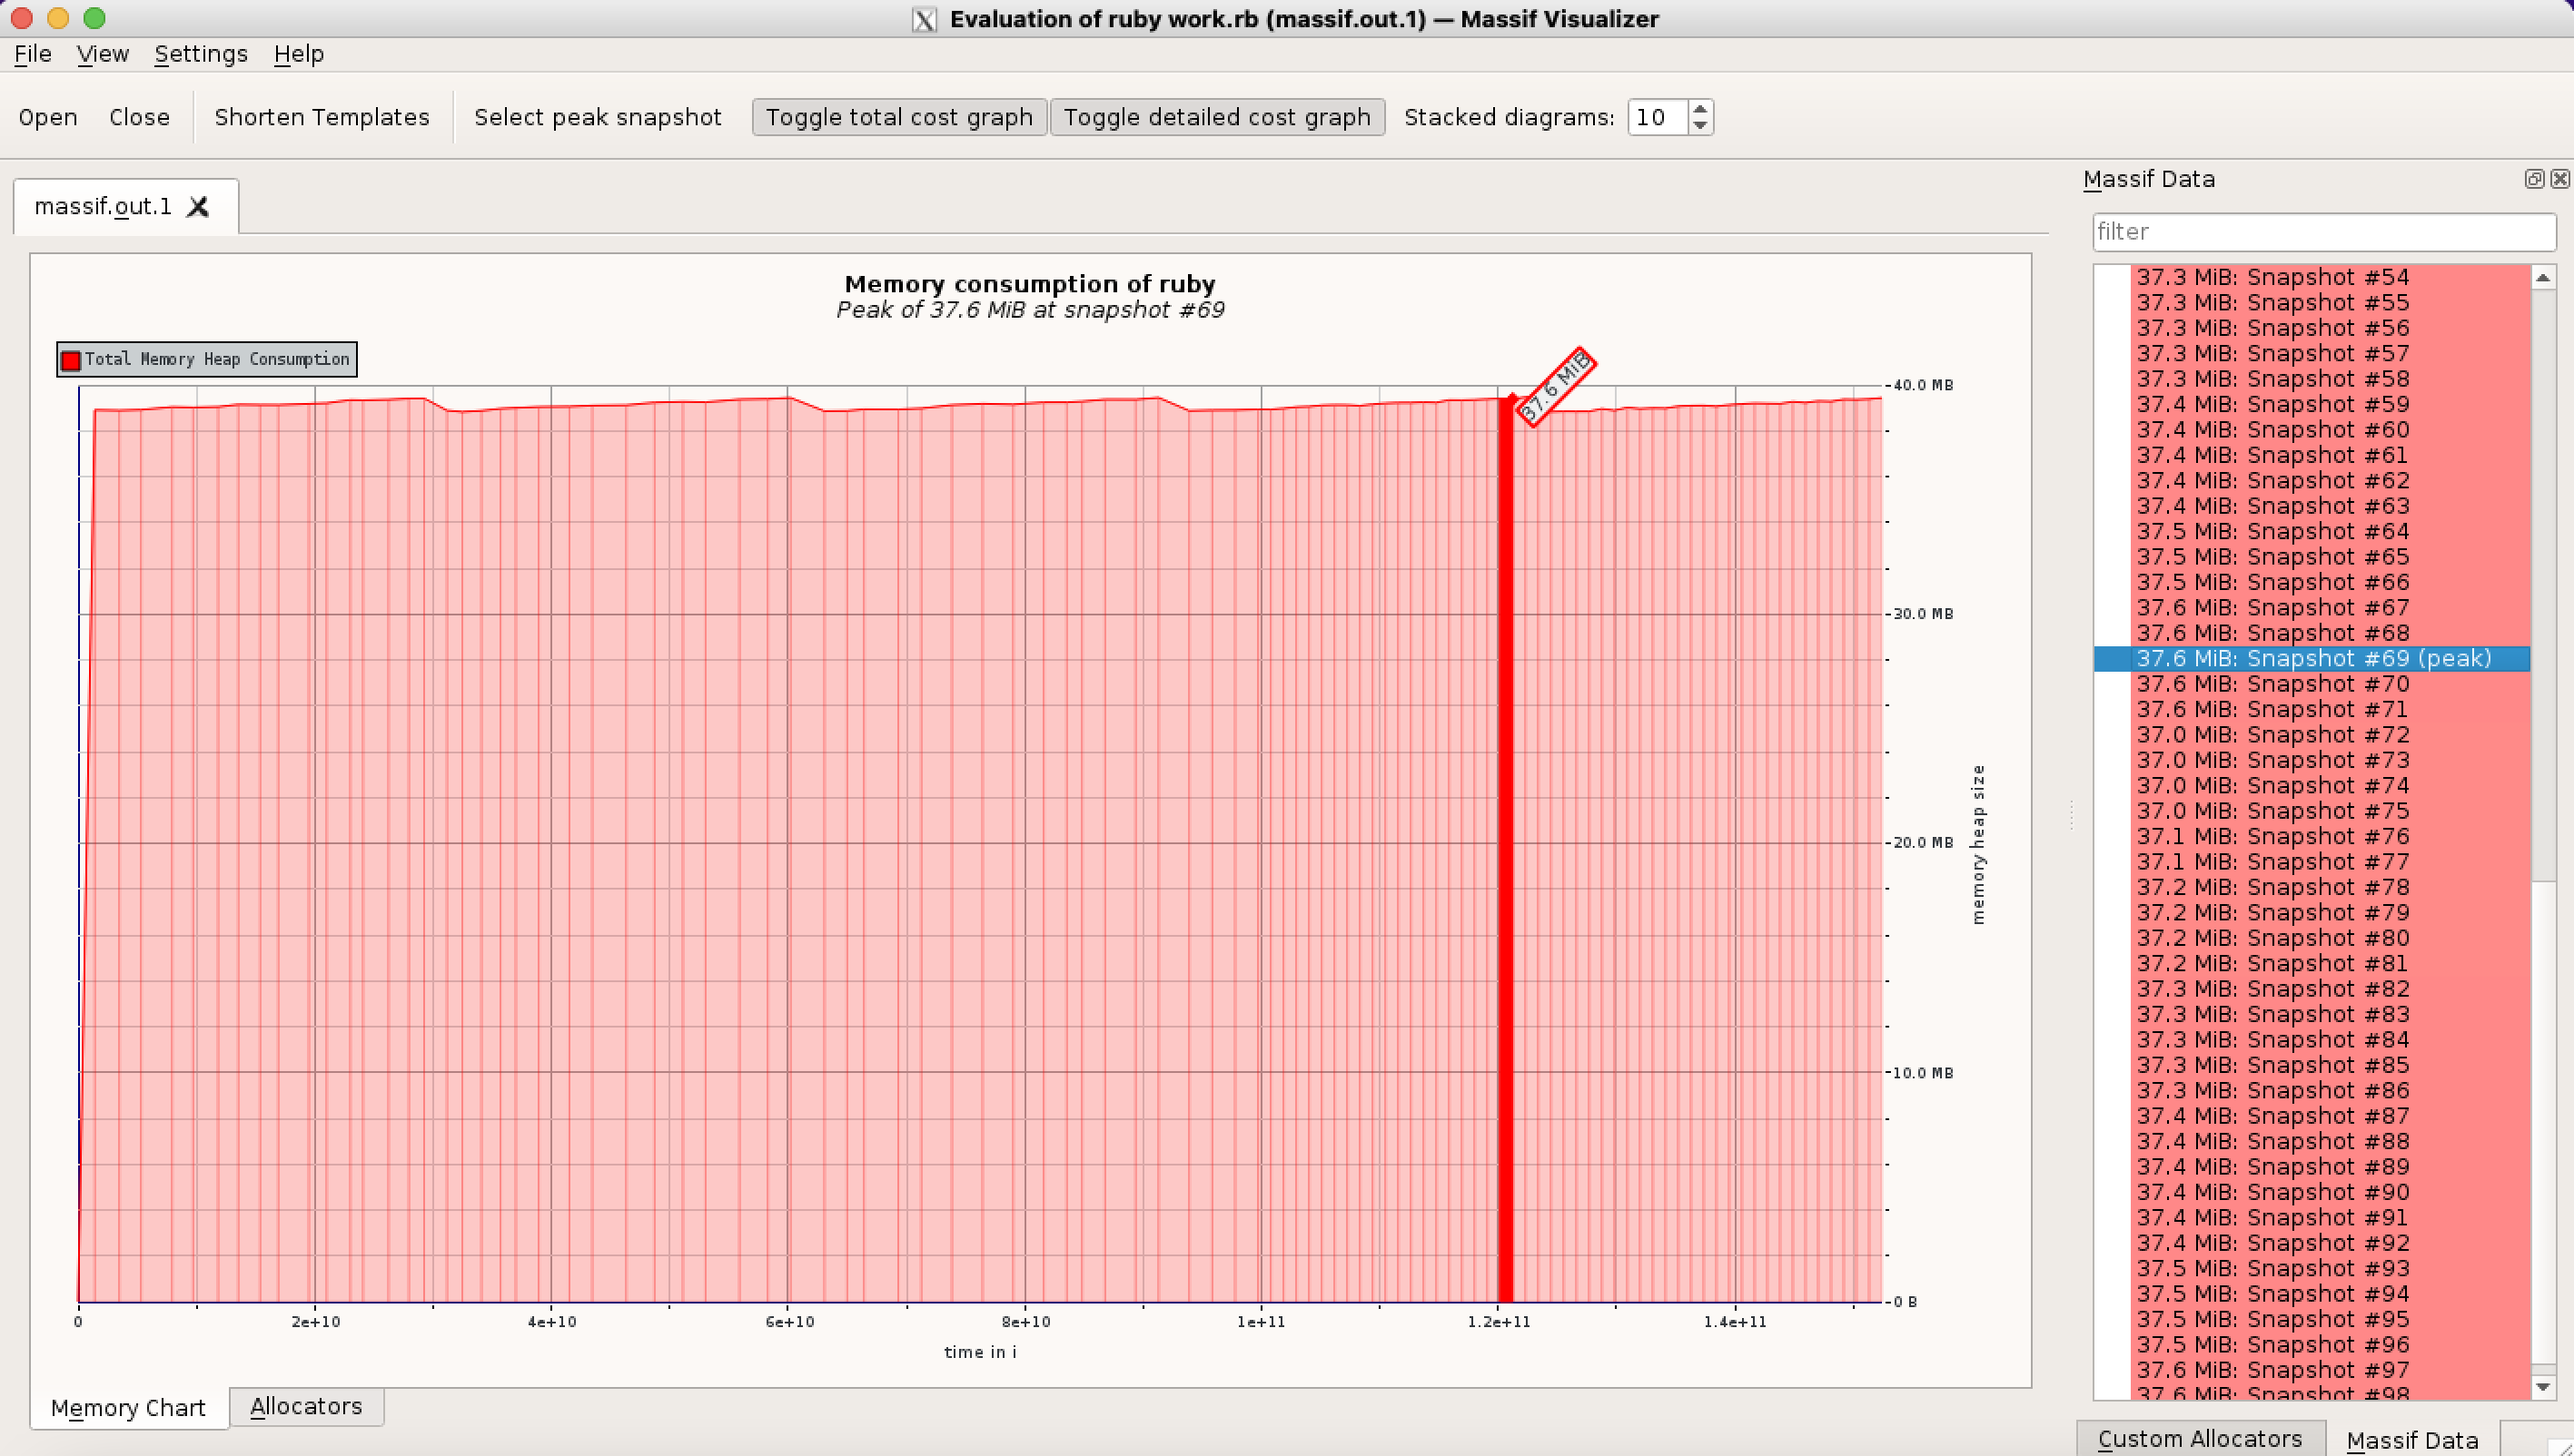
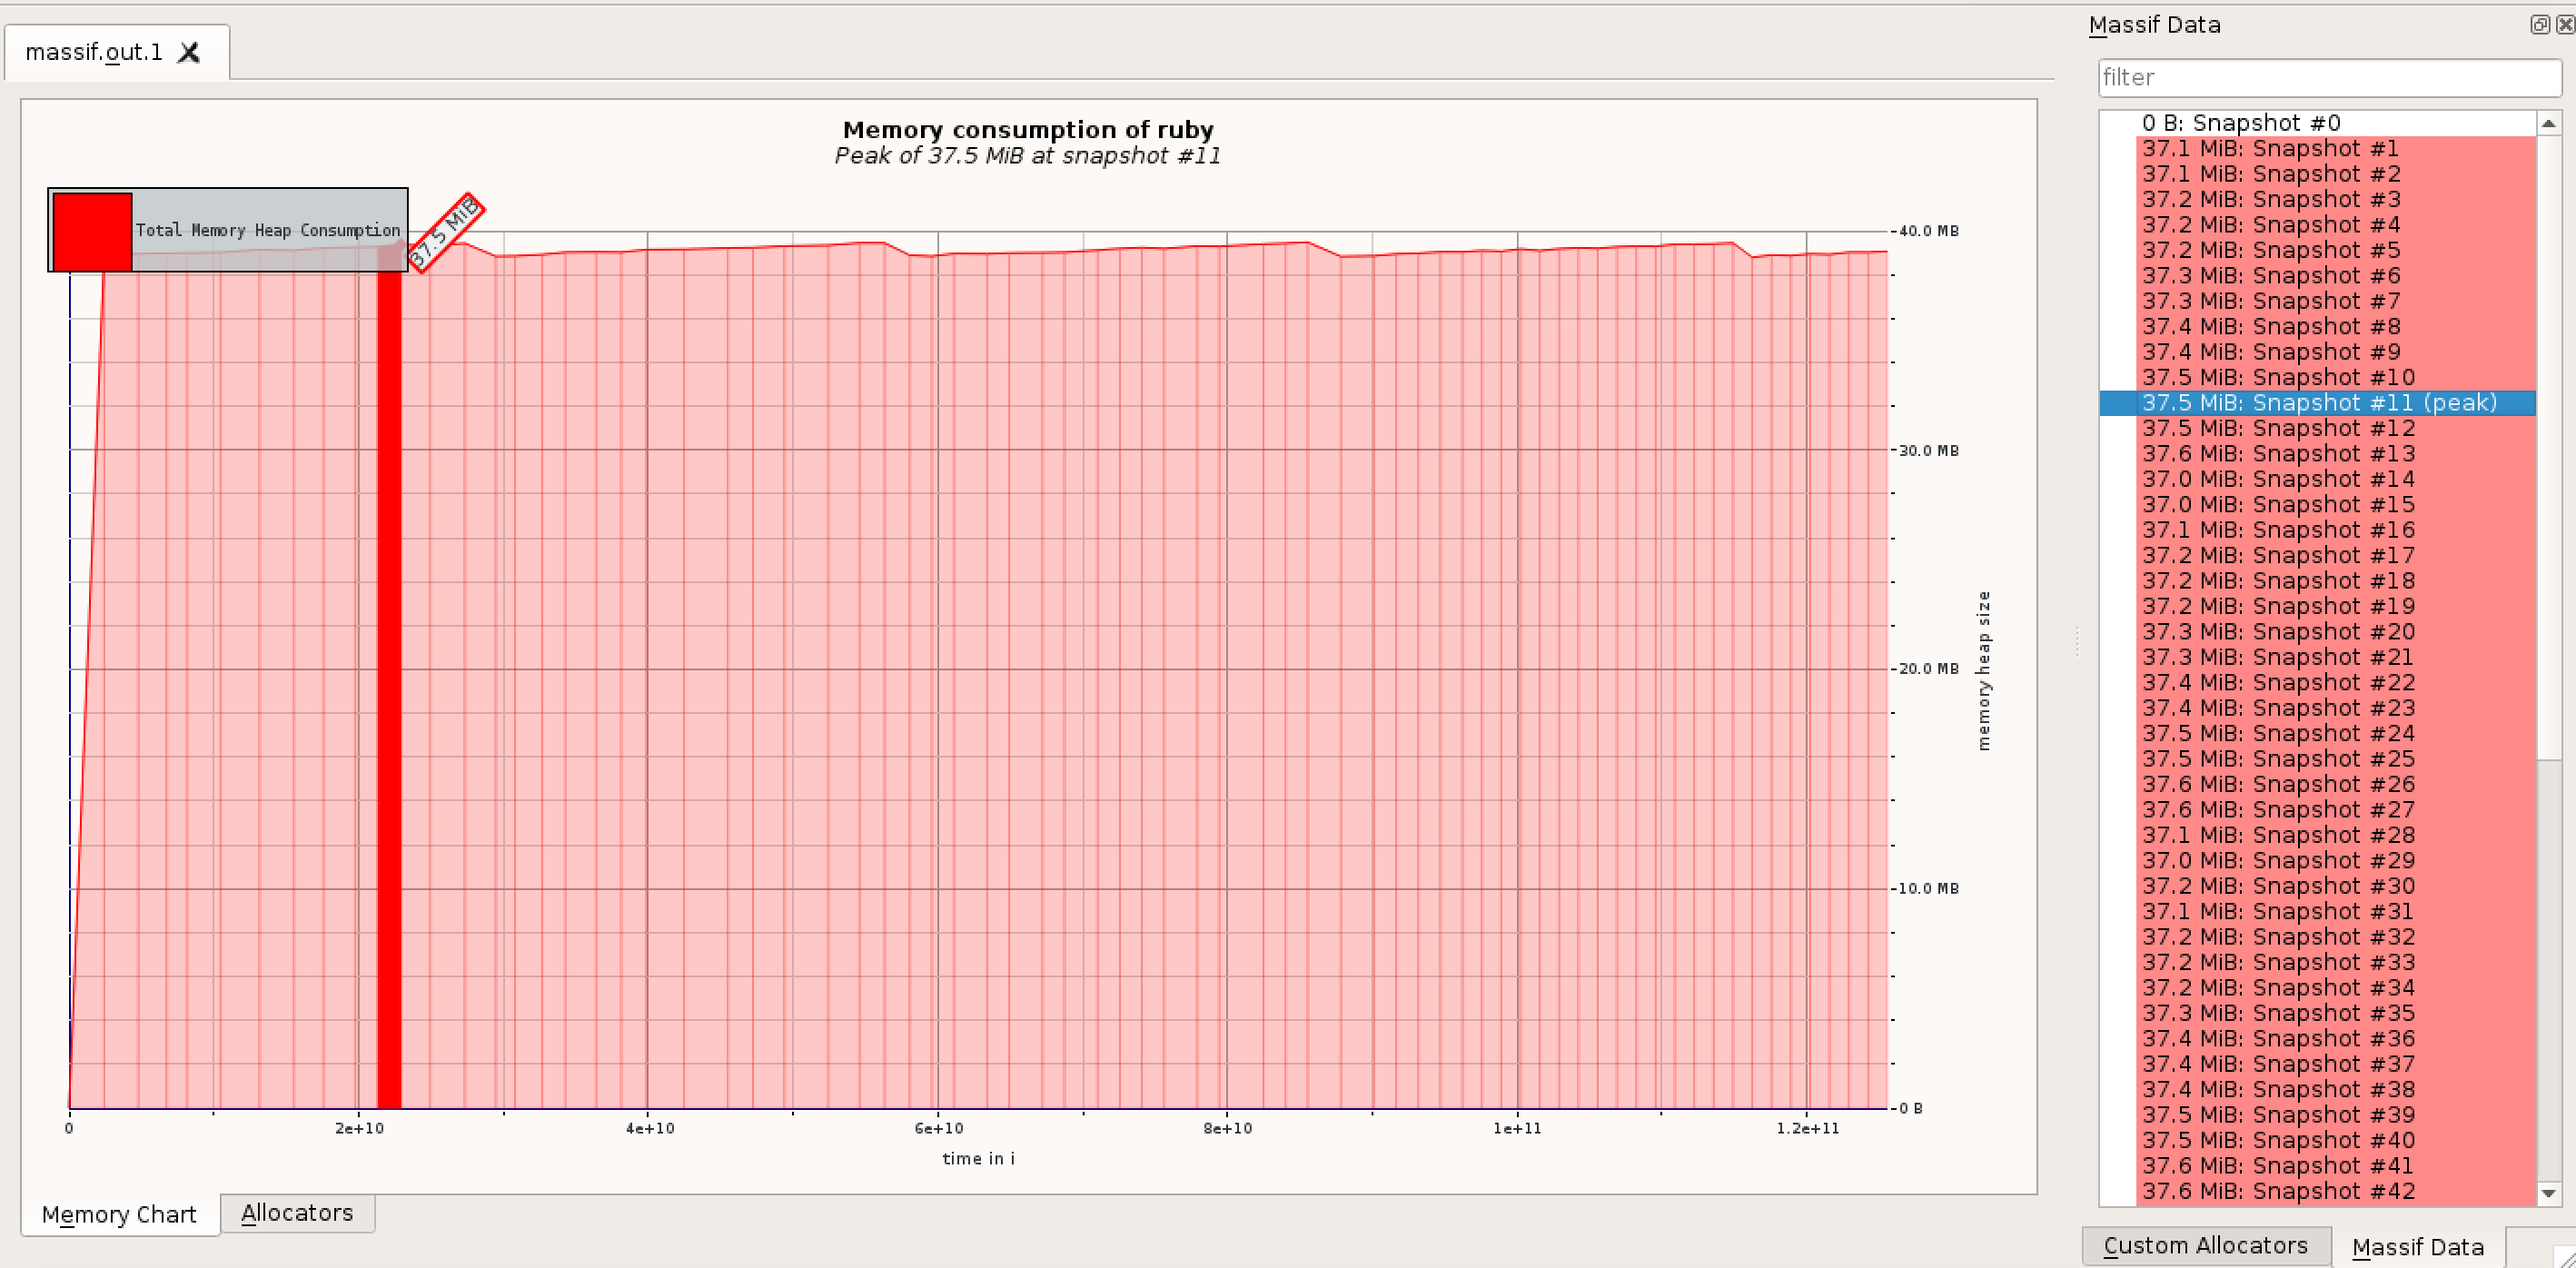
add case study #2

diff --git a/task-2.rb b/task-2.rb
@@ -105,9 +105,8 @@ def work(path = DEFAULT_PATH, verbose: VERBOSE, disable_gc: false)
 
     File.foreach(path, 'user') do |chunk|
       current_user = nil
-      lines = chunk.split("\n")
-      until lines.empty?
-        cols = lines.shift.split(',')
+      chunk.split("\n") do |line|
+        cols = line.split(',')
         case cols[0]
         when 'user'
           next

diff --git a/spec/task-2_spec.rb b/spec/task-2_spec.rb
@@ -7,8 +7,8 @@ require_relative '../task-2.rb'
 RSpec.describe '#work' do
 
   describe 'used memory' do
-    let(:expected_metric_mb) { 17.75 }
-    let(:bytes) { expected_metric_mb * 1048576 }
+    let(:expected_metric_mb) { 16.72 }
+    let(:bytes) { expected_metric_mb * 1_048_576 }
 
     it 'corresponds to the limit while Ruby code execution' do
       expect {

diff --git a/case-study.md b/case-study.md
@@ -18,7 +18,7 @@
 Программа поставлялась с тестом. Выполнение этого теста в фидбек-лупе позволяет не допустить изменения логики программы при оптимизации.
 
 ## Feedback-Loop
-Для того, чтобы иметь возможность быстро проверять гипотезы я выстроил эффективный `feedback-loop`, который позволил мне получать обратную связь по эффективности сделанных изменений за *~60 cек*
+Для того, чтобы иметь возможность быстро проверять гипотезы я выстроил эффективный `feedback-loop`, который позволил мне получать обратную связь по эффективности сделанных изменений за *~10 cек*
 
 Вот как я построил `feedback_loop`:
 - выбор точки роста на основании данных `memory-profiler`, секции "allocated memory by gem", "allocated memory by file", и 6 строк из секции "allocated memory by location"; GC отключен
@@ -47,17 +47,24 @@
 ### Ваша находка №1
 - `memory-profiler` показал главную точку роста `sessions.map { |s| Date.strptime(s.date, '%Y-%m-%d') }.sort.reverse.map(&:iso8601)`
 - решил убрать форматирование дат так-как все даты в исходном файле имеют нужный формат
-- allocated memory меньше на 3.99 MB: 21.74 MB -> 17.75 MB, RSS MEMORY USAGE: 29 MB
-- исправленная проблема перестала быть главной точкой роста но фактический размер используемой памяти при обработке файла 'data_large.txt' не изменился. Принял решение завершить оптимизацию, поскольку память укладываются в бюджет.
+- allocated memory меньше на 3.99 MB: 21.74 MB -> 17.75 MB, RSS MEMORY USAGE: 20 MB
+- исправленная проблема перестала быть главной точкой роста
+
+### Ваша находка №2
+- `memory-profiler` показал главную точку роста `cols = lines.shift.split(',')`
+- заменил цикл until блочной реализацией split
+- allocated memory меньше на 1.03 MB: 17.75 MB -> 16.72 MB, MEMORY USAGE: 19 MB
+- несмотря на оптимизацию, исправленная проблема не перестала быть главной точкой роста и фактический размер используемой памяти при обработке файла 'data_large.txt' не изменился. Принял решение завершить оптимизацию, поскольку память укладываются в бюджет.
 
 ## Завершение
-- добавил спек для фиксации метрики `rspec-benchmark` с пороговым значением 17.75 MB
+- добавил спек для фиксации метрики `rspec-benchmark` с пороговым значением 16.72 MB
 - построил график потребления памяти в `valgrind massif visualier`
 
 ## Результаты
 В результате проделанной оптимизации наконец удалось обработать файл с данными.
-Удалось улучшить метрику системы с *RSS MEMORY USAGE: 301 MB, до того, 29 MB* и уложиться в заданный бюджет. Вместе с этим  количество итераций в секунду при обработке файла в 16 000 строк выросла в 40 раз.
-По данным valgrind massif, на обработку всего файла data_large.txt расходуется около 37.7 MB памяти без значительных всплесков.
+Удалось улучшить метрику системы с *RSS MEMORY USAGE: 301 MB, до того, 29 MB* и уложиться в заданный бюджет. Вместе с этим, количество итераций в секунду при обработке файла в 16 000 строк выросла в 40 раз.
+По данным valgrind massif, на обработку всего файла data_large.txt расходуется около 37.5 MB памяти без значительных всплесков.
+Время обработки файла data_large.txt составило около 11 сек.
 
 ![Screenshot](./data_large.png)
 
